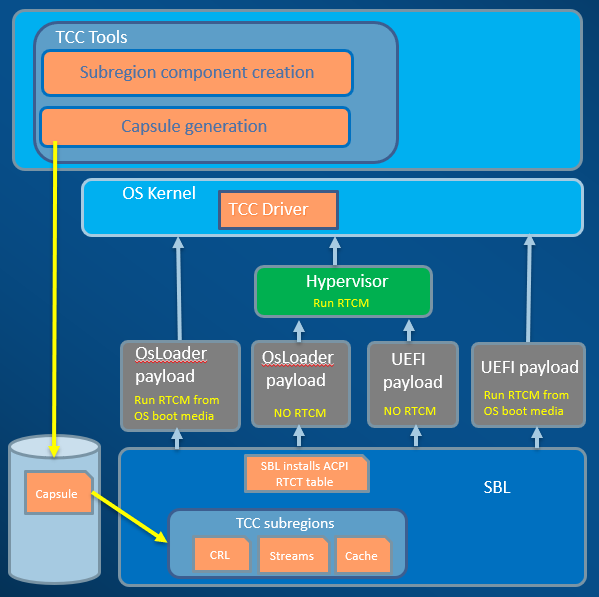
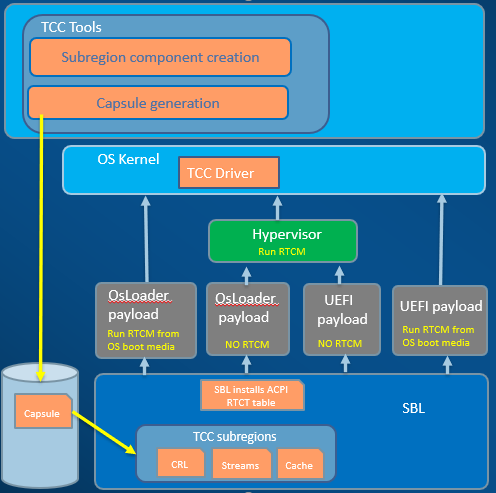
Fix the TCC image display issue
Make the TCC image a little smaller.

Changed region(s): [[0.0, 0.0, 0.998, 1.0], [0.9677, 0.3043, 0.998, 0.3955], [0.7863, 0.7911, 0.8468, 0.8519]]

diff --git a/source/how-tos/enable-intel-tcc.rst b/source/how-tos/enable-intel-tcc.rst
@@ -26,7 +26,7 @@ Intel® TCC (Time Coordinated Computing) is a set of capabilities that improve c
 Here is the Intel® TCC work flow overview with SBL when Intel® TCC is supported on the platforms.
 
 .. image:: /images/tcc/tcc_overview.png
-
+  :width: 500
 
 SBL defined several subregions for TCC components inside SBL IFWI. Each subregion could be updated via SBL firmware update mechanism. During boot time, SBL would load these TCC components from these subregions and install TCC RTCT ACPI table.
 
